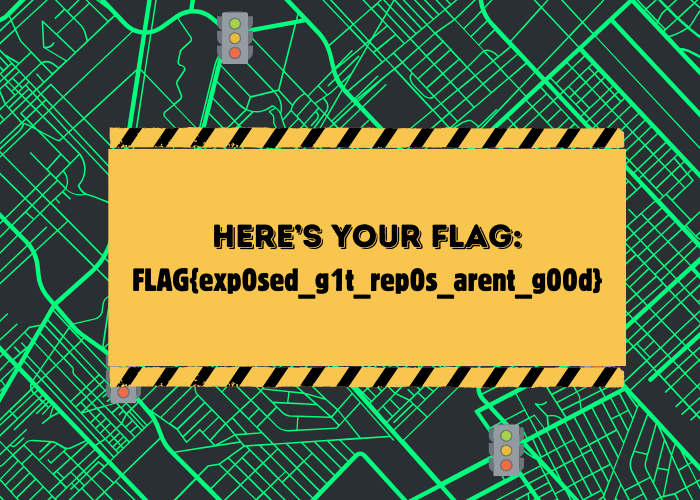
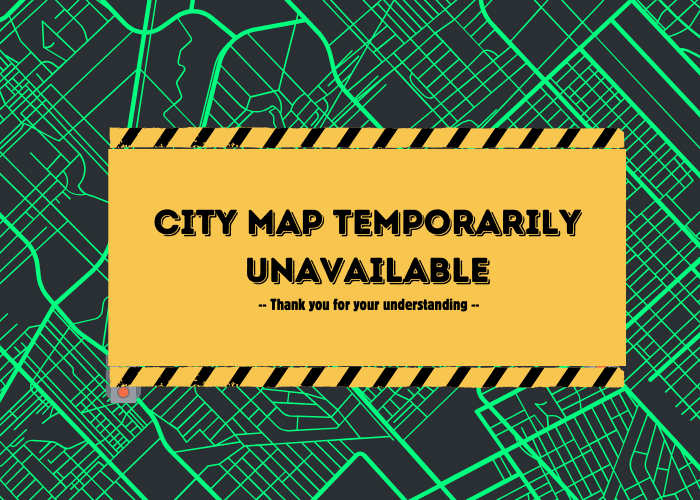
Update because hackers keep trying to mess with our map

Changed region(s): [[0.18, 0.42, 0.87, 0.63], [0.3, 0.0, 0.36, 0.15], [0.69, 0.84, 0.75, 0.96]]

diff --git a/templates/index.html b/templates/index.html
@@ -41,8 +41,9 @@
   <body>
     <div class="header"><h2>Connected Streets - Live View</h2></div>
     <div class="main">
-      <div><strong>A message from the mayor: </strong>As we roll out our new smart traffic grid, we're committing to keeping you--our constituents--informed. We're happy to announce another update, we have seen no issues with the current lights and are adding two more. We will update this site with statistics on traffic congestion reduction in the future. </div>
+      <div><strong>A message from the mayor: </strong>As we roll out our new smart traffic grid, we're committing to keeping you--our constituents--informed. However due to security concerns we have to take the map offline temporarily as we upgrade our IT systems. Please check back with us shortly and thank you for your understanding.</div>
       <img src="/images/citymap.png" alt="City map now fully updated, showing five locations">
+    <!-- IT note: we're getting a lot of weird traffic so we're removing the map for now. We have a backup that we have instructed webcrawlers not to access... -->
     </div>
   </body>
 </html>
